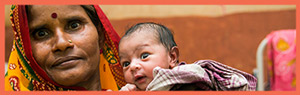
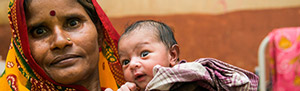
changes on 16th October

diff --git a/css/style.css b/css/style.css
@@ -1,1 +1,1 @@
-body .w-100{display:block;width:100%}body .pb-20{padding-bottom:20px}body .span-01{display:inline;background:#68c557;color:#ffffff;padding:10px 48px;font-size:14px;font-weight:bold;width:30px;border-radius:0px 23px 23px 0px}body td.large-4,body th.large-4{padding-left:0px;padding-right:0px}body img{margin:0px auto;white-space:pre;font-size:12.8px}body a{display:inline-block}body .container{width:700px}body #row01{width:90%;margin:0 auto}body #row01 p{font-size:12.8px}body #row02 th{padding-bottom:50px}body #row02 th img{width:100%}body #row03{width:90%;margin:auto}body #row03 a{color:#000000;font-size:13px;font-weight:bold;display:inline}body #row03 a img{padding-bottom:7px}body #row04{width:90%;margin:0 auto}body #row04 p{font-size:14.4px;padding-top:32px}body #row05{margin:0 auto}body #row05 p{font-size:13px}body #row05 a{color:#000000;font-size:15px;font-weight:bold;text-decoration:underline;display:inline}body #row05 .bdr-btm{border-bottom:1px solid #ccc}body #row05 .btn{background:#6EB3BA;padding:0 16px}body #row05 .btn a{border:0 solid #6EB3BA;font-family:Arial;font-size:15px;font-weight:normal;font-size:12.8px}body #in-the-news{width:90%;margin:0 auto}body #in-the-news .row span{font-size:24px}body #in-the-news .row p{font-size:12.8px}body #in-the-news .row a{font-size:12.8px;padding:5px 29px 0px 3px;color:#000000;text-decoration:underline}body #footer{background:#303131}body #footer .row{width:90%;margin:0 auto}body #footer .row .link{color:#AFAFAF;text-decoration:underline}body #footer .row .columns{padding:0}body #footer .row .inline{float:right}body #footer .row .inline img{display:inline-block}body #footer .row .py-2{padding:32px 0}body #footer .row p{color:#AFAFAF;font-size:12.8px}body #footer .row span{color:#AFAFAF;font-size:10px}
+body .w-100{display:block;width:100%}body .pb-20{padding-bottom:20px}body .span-01{display:inline;background:#68c557;color:#ffffff;padding:10px 48px;font-size:14px;font-weight:bold;width:30px;border-radius:0px 23px 23px 0px}body td.large-4,body th.large-4{padding-left:0px;padding-right:0px}body img{margin:0px auto;white-space:pre;font-size:12.8px}body a{display:inline-block}body .container{width:700px}body #row01{width:90%;margin:0 auto}body #row01 p{font-size:12.8px}body #row02 th{padding-bottom:50px}body #row02 th img{width:100%}body #row03{width:90%;margin:auto}body #row03 a{color:#000000;font-size:13px;font-weight:bold;display:inline}body #row03 a img{padding-bottom:7px}body #row03 .div01{display:inline-block;background:#f26c4f;text-align:center;padding:4px;padding-bottom:10px}body #row03 .div02{display:inline-block;background:#00aeef;text-align:center;padding:4px;padding-bottom:20px}body #row03 .div02 img{padding-bottom:12px !important}body #row04{width:90%;margin:0 auto}body #row04 p{font-size:14.4px;padding-top:32px}body #row05{margin:0 auto}body #row05 p{font-size:13px}body #row05 a{color:#000000;font-size:15px;font-weight:bold;text-decoration:underline;display:inline}body #row05 .bdr-btm{border-bottom:1px solid #ccc}body #row05 .btn{background:#6EB3BA;padding:0 16px}body #row05 .btn a{border:0 solid #6EB3BA;font-family:Arial;font-size:15px;font-weight:normal;font-size:12.8px}body #in-the-news{width:90%;margin:0 auto}body #in-the-news .row span{font-size:24px}body #in-the-news .row p{font-size:12.8px}body #in-the-news .row a{font-size:12.8px;padding:5px 29px 0px 3px;color:#000000;text-decoration:underline}body #footer{background:#303131}body #footer .row{width:90%;margin:0 auto}body #footer .row .link{color:#AFAFAF;text-decoration:underline}body #footer .row .columns{padding:0}body #footer .row .inline{float:right}body #footer .row .inline img{display:inline-block}body #footer .row .py-2{padding:32px 0}body #footer .row p{color:#AFAFAF;font-size:12.8px}body #footer .row span{color:#AFAFAF;font-size:10px}

diff --git a/index.html b/index.html
@@ -24,7 +24,7 @@
 										<th class="small-12 large-12 columns">
 											<br /><br />
 											<p>
-												Welcome to the first issue of Aksha Dialogues - a monthly newsletter published by the India office of Bill
+												Welcome to the first issue of Aksha Dialogues - a monthly newsletter published by the India office of<br>Bill
 												& Melinda
 												Gates Foundation.
 												<br><br>
@@ -106,24 +106,16 @@
 								<table id="row03" class="row" align="center">
 									<tr>
 										<th class="small-12 large-6 columns text-center">
-											<a href="https://www.hindustantimes.com/columns/new-scientific-discoveries-can-save-the-lives-of-preterm-babies/story-TZcJYHVhPV3iXZAv5SkylO.html">
+											<a class="div01" href="https://www.hindustantimes.com/columns/new-scientific-discoveries-can-save-the-lives-of-preterm-babies/story-TZcJYHVhPV3iXZAv5SkylO.html">
 												<img src="http://aksha.com/newsletter/01/images/image_aaa.jpg" alt="">
 												New scientific discoveries can<br />save the lives of preterm babies
 											</a>
 										</th>
 										<th class="small-12 large-6 columns text-center">
-											<a href="https://www.hindustantimes.com/columns/india-can-reduce-maternal-deaths/story-9KkiU2fFZTkD6hRhPpcjJK.html">
+											<a class="div02" href="https://www.hindustantimes.com/columns/india-can-reduce-maternal-deaths/story-9KkiU2fFZTkD6hRhPpcjJK.html">
 												<img src="http://aksha.com/newsletter/01/images/image_bbb.jpg" alt="">
 												India can reduce maternal deaths
 											</a>
-										</th>
-									</tr>
-								</table>
-
-								<table id="row01" class="row" align="center">
-									<tr>
-										<th>
-											<img src="http://aksha.com/newsletter/01/images/image_03.jpg" alt="India’s major NTDs and rank globally 2016" />
 										</th>
 									</tr>
 								</table>
@@ -161,7 +153,7 @@
 								<table id="row05" class="row" align="center">
 									<tr>
 										<th class="small-12 large-6 columns">
-											<img src="http://aksha.com/newsletter/01/images/image_aaaa.jpg" alt="">
+											<img class="w-100" src="http://aksha.com/newsletter/01/images/image_aaaa.jpg" alt="">
 										</th>
 										<th class="small-12 large-6 columns">
 											<a href="https://gatesopenresearch.org/articles/2-11/v2">
@@ -186,7 +178,7 @@
 								<table id="row05" class="row" align="center">
 									<tr>
 										<th class="small-12 large-6 columns">
-											<img src="http://aksha.com/newsletter/01/images/image_bbbb.jpg" alt="">
+											<img class="w-100" src="http://aksha.com/newsletter/01/images/image_bbbb.jpg" alt="">
 										</th>
 										<th class="small-12 large-6 columns">
 											<a href="https://clinicaltrials.gov/ct2/show/NCT03406221?recrs=e&cond=Child+and+maternal+health&rank=16">

diff --git a/css/style.scss b/css/style.scss
@@ -72,6 +72,23 @@
 				padding-bottom: 7px;
 			}
 		}
+		.div01{
+			display: inline-block;
+			background: #f26c4f;
+			text-align: center;
+			padding: 4px;
+			padding-bottom: 10px;
+		}
+		.div02{
+			display: inline-block;
+			background: #00aeef;
+			text-align: center;
+			padding: 4px;
+			padding-bottom: 20px;
+			img {
+				padding-bottom: 12px!important;
+			}
+		}
 	}
 
 	#row04 {
